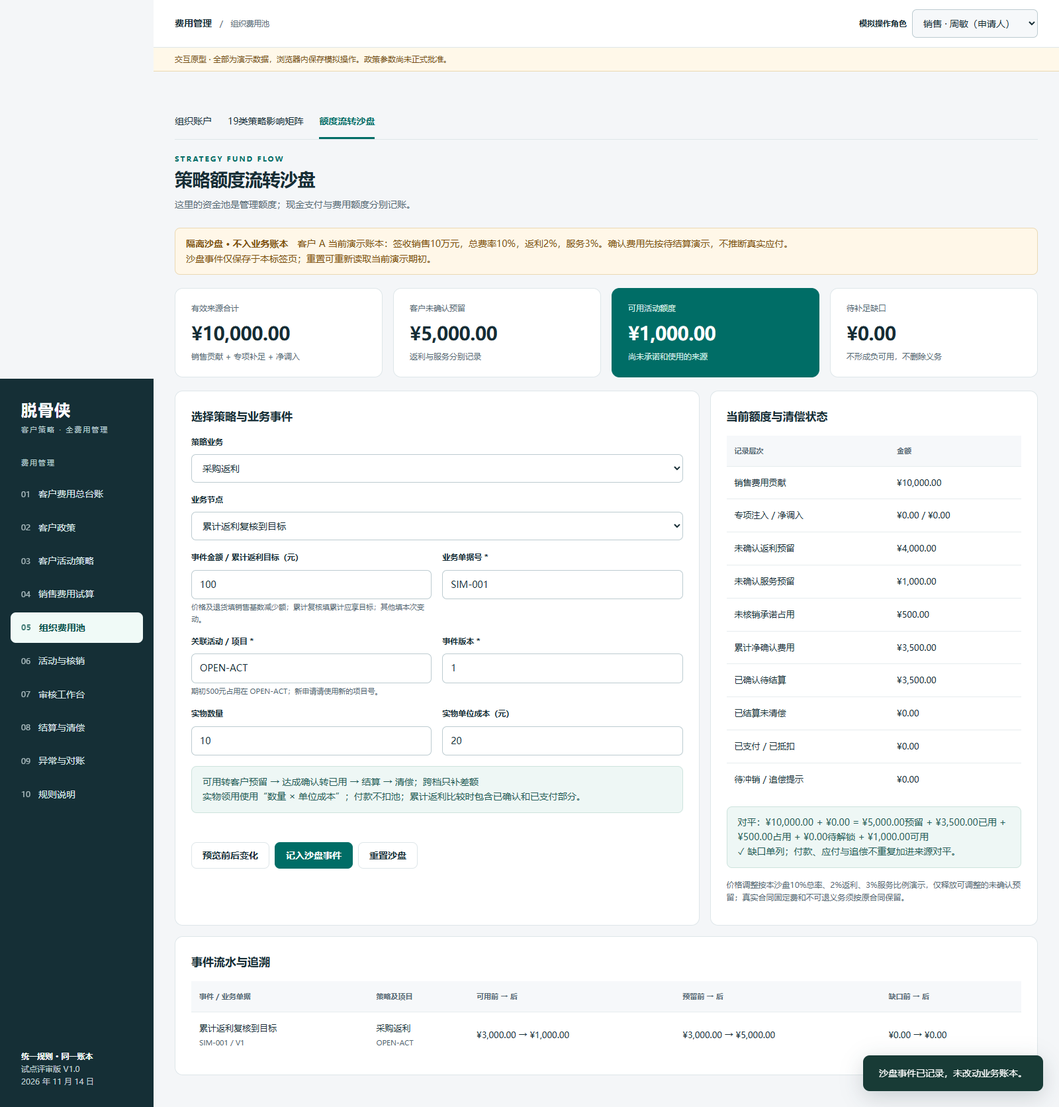
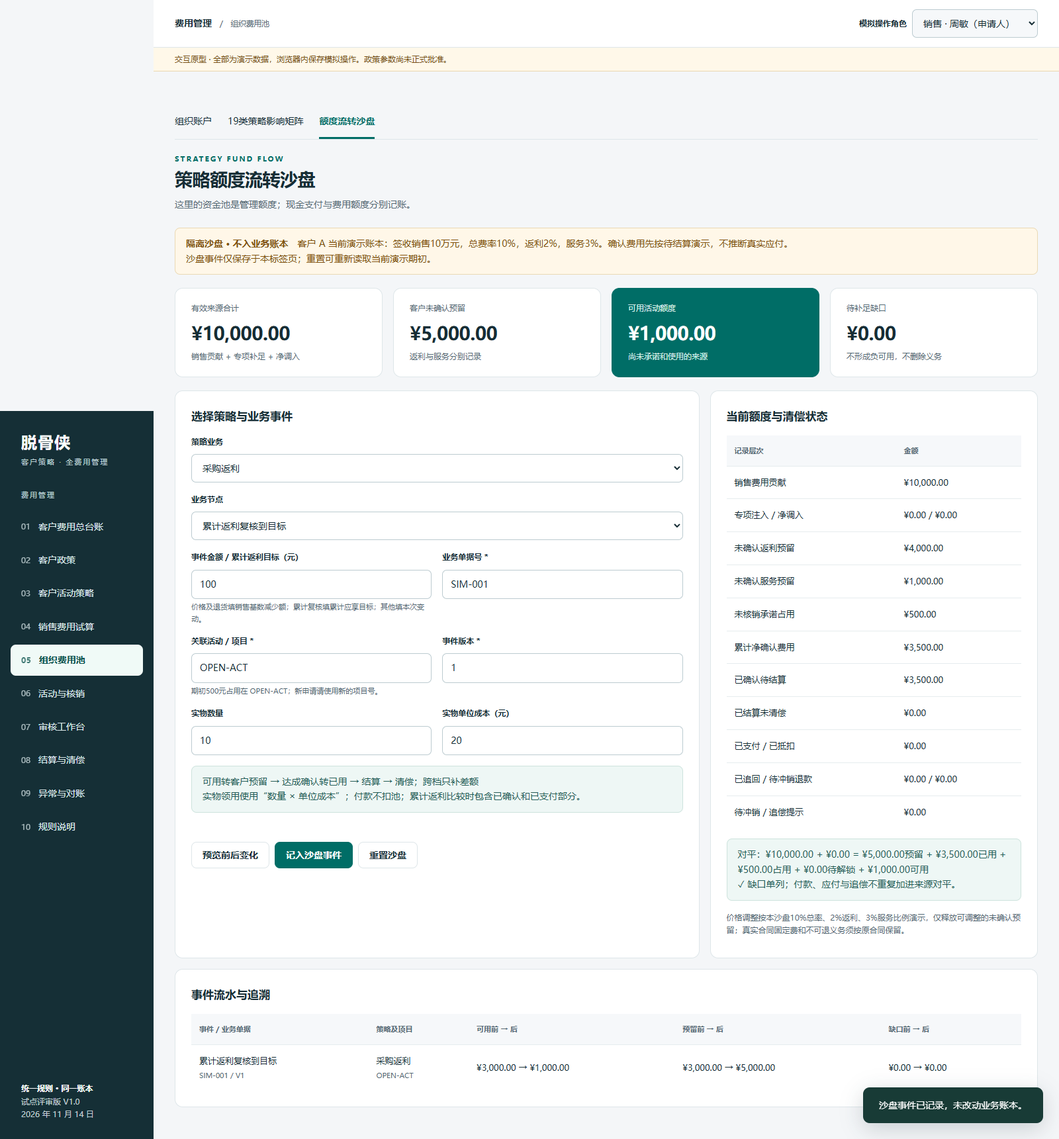
Auto sync 2026-11-16 17:14:25

diff --git a/09-设计与原型/全费用管理/原型.html b/09-设计与原型/全费用管理/原型.html
@@ -35,7 +35,7 @@ function render(){
  ensureSchemes();
  ensurePrograms();
  $('nav').innerHTML=pages.map(([id,num,label])=>`<button data-nav="${id}" ${page===id?'aria-current="page"':''}><span>${num}</span><span>${label}</span></button>`).join('');$('crumb').textContent=pages.find(x=>x[0]===page)[2];
- const views={ledger:ledgerView,policies:policyView,programs:programListView,programs:programListView,programs:programListView,programs:programListView,programs:programListView,programs:programListView,calculator:calcView,pools:poolsView,activities:activitiesView,approval:approvalView,settlement:settlementView,exceptions:exceptionsView,rules:rulesView};$('workspace').innerHTML=views[page]();if(page==='calculator'&&$('calcForm'))calculate();if(page==='activities')drawActivityRows();
+ const views={ledger:ledgerView,policies:policyView,programs:programListView,programs:programListView,programs:programListView,programs:programListView,programs:programListView,programs:programListView,programs:programListView,calculator:calcView,pools:poolsView,activities:activitiesView,approval:approvalView,settlement:settlementView,exceptions:exceptionsView,rules:rulesView};$('workspace').innerHTML=views[page]();if(page==='calculator'&&$('calcForm'))calculate();if(page==='activities')drawActivityRows();
 }
 function ledgerView(){const b=balances(),used=sum(b.used),available=sum(b.available),occ=sum(b.occupied),confirmed=200000+used;
 return heading('CUSTOMER EXPENSE LEDGER','客户费用总台账','统一查看客户贡献、费用承诺与实际投入。',`<button data-action="export">导出台账 CSV</button><button class="primary" data-action="new">发起活动申请</button>`)+
@@ -1712,25 +1712,25 @@ document.addEventListener('click',e=>{const b=e.target.closest('button');if(!b)r
 // 策略资金影响设计及隔离沙盘：不改动任何业务账本余额。
 const fundPolicies={
 price:{source:'成交价格',trigger:'有效销售计提 / 价格调整',flow:'先减少成交基数，再重算总贡献和按合同可调整的预留；不按优惠额再扣活动池',reverse:'取消 / 退货引用原销售与政策版本冲回；已成立义务不自动取消',actions:['price','return']},
-rebate:{source:'SKU总包',trigger:'有效销售或期间累计复核',flow:'可用转客户预留 → 达成确认转已用 → 结算 → 清偿；跨档只补差额',reverse:'仅释放未确认预留；已确认或已付差额进入冲销 / 追偿',actions:['target','reserve','reserve_release','confirm_rebate','settle','pay','reverse_fee']},
-activity:{source:'SKU总包',trigger:'申请最终审批通过',flow:'可用转占用 → 履约核销转已用 → 结项释放余款 → 结算清偿',reverse:'撤回 / 驳回未占用；取消释放剩余占用，已核销走批准冲销',actions:['hold','use','release','settle','pay','reverse_fee']},
-physical:{source:'SKU总包',trigger:'领用审批按成本占用',flow:'批准成本占用 → 出库记录数量 → 验收成本核销 → 差额释放；不按零售价计费',reverse:'未核销退库释放成本占用；已核销退库凭证经批准冲销',actions:['physical_hold','use','release','reverse_fee']},
-deduction:{source:'合同结算',trigger:'合同及结算审核',flow:'默认只改变清偿或扣款方向，不自动增加预算；真实费用冲减须单独批准',reverse:'扣款撤销恢复原应付；预算恢复与清偿撤销分别审核',actions:['deduct','settle','pay','reverse_fee']}
+rebate:{source:'SKU总包',trigger:'有效销售或期间累计复核',flow:'可用转客户预留 → 达成确认转已用 → 结算 → 清偿；跨档只补差额',reverse:'仅释放未确认预留；已确认或已付差额进入冲销 / 追偿',actions:['target','reserve','reserve_release','confirm_rebate','settle','pay','reverse_fee','refund','reverse_refunded']},
+activity:{source:'SKU总包',trigger:'申请最终审批通过',flow:'可用转占用 → 履约核销转已用 → 结项释放余款 → 结算清偿',reverse:'撤回 / 驳回未占用；取消释放剩余占用，已核销走批准冲销',actions:['hold','use','release','settle','pay','reverse_fee','refund','reverse_refunded']},
+physical:{source:'SKU总包',trigger:'领用审批按成本占用',flow:'批准成本占用 → 出库记录数量 → 验收成本核销 → 差额释放；不按零售价计费',reverse:'未核销退库释放成本占用；已核销退库凭证经批准冲销',actions:['physical_hold','use','release','reverse_fee','refund','reverse_refunded']},
+deduction:{source:'合同结算',trigger:'合同及结算审核',flow:'默认只改变清偿或扣款方向，不自动增加预算；真实费用冲减须单独批准',reverse:'扣款撤销恢复原应付；预算恢复与清偿撤销分别审核',actions:['deduct','settle','pay','reverse_fee','refund','reverse_refunded']}
 };
-const fundActions={price:'价格让利后的基数调整',return:'退货销售冲回',reserve:'追加客户费用预留',target:'累计返利复核到目标',reserve_release:'释放未确认返利预留',confirm_rebate:'返利达成确认',hold:'活动审批占用',physical_hold:'实物领用按成本占用',use:'执行核销 / 实物验收',release:'结项 / 取消释放占用',settle:'确认费用转结算应付',pay:'现金支付 / 货款抵扣',reverse_fee:'批准冲销未清偿费用',deduct:'合同扣款清偿',inject:'专项补足（独立来源）',transfer_out:'调出可用额度'};
+const fundActions={refund:'已付款项追回 / 退款到账',reverse_refunded:'批准冲销已追回费用',price:'价格让利后的基数调整',return:'退货销售冲回',reserve:'追加客户费用预留',target:'累计返利复核到目标',reserve_release:'释放未确认返利预留',confirm_rebate:'返利达成确认',hold:'活动审批占用',physical_hold:'实物领用按成本占用',use:'执行核销 / 实物验收',release:'结项 / 取消释放占用',settle:'确认费用转结算应付',pay:'现金支付 / 货款抵扣',reverse_fee:'批准冲销未清偿费用',deduct:'合同扣款清偿',inject:'专项补足（独立来源）',transfer_out:'调出可用额度'};
 let fundTab='accounts',fundRuleId='STR-001',fundSandbox=null;
 const existingPoolView=poolsView,existingReadRule=readRule,existingRuleOpen=openDealerRule,existingFundRender=render;
 function fundPolicy(r){const special={'新品试销支持':{flow:'首批折扣先影响成交基数；换货权益不折现，实际换货成本差及履约费用按合同另行确认'},'运费补贴':{flow:'若已计入履约成本不得重复扣包；新增客户专项运费支持先占用，再按合格账单核销'},'库存价保 / 调换支持':{flow:'核验原采购、库存及调价差，批准新增补偿占用并确认；已通过销售折让处理的部分不重复扣包'}};return{...fundPolicies[r.route],...(special[r.kind]||{}),...(r.fund||{})}}
 function fundDefaultRules(){ensurePrograms();return state.dealerRules}
-function initialFundSandbox(){const b=balances(),used=sum(b.used),hold=sum(b.occupied);return{contribution:1000000,topup:0,transfer:0,r:200000,s:100000,c:200000+used,h:hold,locked:0,rebateConfirmed:0,unsettledR:0,dueR:0,paidR:0,unsettled:200000+used,due:0,paid:0,claim:0,projects:{'OPEN-ACT':hold},events:[],seen:[],baseNote:'客户 A 当前演示账本：签收销售10万元，总费率10%，返利2%，服务3%。确认费用先按待结算演示，不推断真实应付。'}}
-function loadFundSandbox(){if(fundSandbox)return fundSandbox;try{fundSandbox=JSON.parse(sessionStorage.getItem('tgx-fund-sandbox-v1')||'null')}catch{}if(!fundSandbox)fundSandbox=initialFundSandbox();fundSandbox.unsettledR??=0;fundSandbox.dueR??=0;fundSandbox.paidR??=0;return fundSandbox}
+function initialFundSandbox(){const b=balances(),used=sum(b.used),hold=sum(b.occupied);return{contribution:1000000,topup:0,transfer:0,r:200000,s:100000,c:200000+used,h:hold,locked:0,rebateConfirmed:0,unsettledR:0,dueR:0,paidR:0,refunded:0,refundedR:0,refundPending:0,refundPendingR:0,unsettled:200000+used,due:0,paid:0,claim:0,projects:{'OPEN-ACT':hold},events:[],seen:[],baseNote:'客户 A 当前演示账本：签收销售10万元，总费率10%，返利2%，服务3%。确认费用先按待结算演示，不推断真实应付。'}}
+function loadFundSandbox(){if(fundSandbox)return fundSandbox;try{fundSandbox=JSON.parse(sessionStorage.getItem('tgx-fund-sandbox-v1')||'null')}catch{}if(!fundSandbox)fundSandbox=initialFundSandbox();fundSandbox.unsettledR??=0;fundSandbox.dueR??=0;fundSandbox.paidR??=0;fundSandbox.refunded??=0;fundSandbox.refundedR??=0;fundSandbox.refundPending??=0;fundSandbox.refundPendingR??=0;return fundSandbox}
 function saveFundSandbox(){try{sessionStorage.setItem('tgx-fund-sandbox-v1',JSON.stringify(fundSandbox))}catch{}}
 function fundTotals(b){const source=b.contribution+b.topup+b.transfer,committed=b.r+b.s+b.c+b.h+b.locked;return{source,available:Math.max(0,source-committed),gap:Math.max(0,committed-source),committed}}
 function fundMatrix(){return table(['业务策略','默认承担来源 / 节点','额度如何变化','撤销及退货','查看'],fundDefaultRules().map(r=>{const p=fundPolicy(r);return[esc(r.kind),esc(p.source)+'<br><small>'+esc(p.trigger)+'</small>',`<span class="wrap">${esc(p.flow)}</span>`,`<span class="wrap">${esc(p.reverse)}</span>`,`<button class="small" data-fund-detail="${r.id}">影响详情</button>`]}))}
 poolsView=function(){const top=`<div class="tabs"><button data-fund-tab="accounts" aria-selected="${fundTab==='accounts'}">组织账户</button><button data-fund-tab="matrix" aria-selected="${fundTab==='matrix'}">19类策略影响矩阵</button><button data-fund-tab="sandbox" aria-selected="${fundTab==='sandbox'}">额度流转沙盘</button></div>`;if(fundTab==='accounts')return top+existingPoolView();return top+heading('STRATEGY FUND FLOW',fundTab==='matrix'?'策略与资金池影响':'策略额度流转沙盘','这里的资金池是管理额度；现金支付与费用额度分别记账。')+(fundTab==='matrix'?`<section class="card">${fundMatrix()}</section><div class="banner">方案发布不增加资金；预估不扣可用。承诺占用、费用确认、结算应付与现金清偿分开记录。合同承诺超包时保留义务并登记缺口，不能压低合同费用。</div>`:fundSandboxView())};
 function openFundDetail(id){const r=state.dealerRules.find(r=>r.id===id),p=fundPolicy(r);launchPage({kind:'fundStrategy',id},()=>showModal(r.kind+' · 资金池影响',`<h2>${esc(r.kind)} ${tag('规则 V'+r.version)}</h2>${table(['设计项','处理规则'],[['计价及单位',r.route==='physical'?'按批准成本，数量和金额分别保存':r.route==='price'?'按成交基数变化，不再以让利额扣费用包':'按政策约定金额及税口径'],['承担来源',esc(p.source)],['生效节点',esc(p.trigger)],['额度路径',esc(p.flow)],['撤销及调整',esc(p.reverse)],['多池及多客户','承担组织分别授权，来源客户和受益客户分别保存；拆分合计等于原金额'],['缺口处理','新活动不足时不占用；已成立合同预留不足时登记缺口，暂停新释放'],['付款控制','已确认费用转应付后可清偿，支付及抵扣不再次减少预算']])}<div class="actions" style="margin-top:16px"><button class="primary" data-fund-sim="${id}">模拟本策略资金流转</button><button data-rule-open="${id}">查看策略配置</button></div>`))}
 function fundSandboxView(){const b=loadFundSandbox(),v=fundTotals(b),r=state.dealerRules.find(r=>r.id===fundRuleId)||state.dealerRules[0],policy=fundPolicy(r);return`<div class="banner warn"><strong>隔离沙盘 · 不入业务账本</strong>　${esc(b.baseNote)}<br>沙盘事件仅保存于本标签页；重置可重新读取当前演示期初。${v.gap?'存在缺口，禁止新增活动占用；已确认义务和原支付记录保留。':''}</div><div class="grid stats">${stat('有效来源合计',money(v.source),'销售贡献 + 专项补足 + 净调入')}${stat('客户未确认预留',money(b.r+b.s),'返利与服务分别记录')}${stat('可用活动额度',money(v.available),'尚未承诺和使用的来源',true)}${stat('待补足缺口',money(v.gap),'不形成负可用，不删除义务')}</div><div class="grid split"><section class="card"><h2>选择策略与业务事件</h2><form id="fundEventForm"><div class="fields"><div class="field wide"><label for="fundRule">策略业务</label><select id="fundRule">${state.dealerRules.map(s=>`<option value="${s.id}" ${s.id===fundRuleId?'selected':''}>${esc(s.kind)}</option>`).join('')}</select></div><div class="field wide"><label for="fundAction">业务节点</label><select id="fundAction">${[...new Set([...policy.actions,'inject','transfer_out'])].map(a=>`<option value="${a}">${fundActions[a]}</option>`).join('')}</select></div><div class="field"><label for="fundAmount">事件金额 / 累计返利目标（元）</label><input id="fundAmount" type="number" min="0" step="0.01" value="100" required><small>价格及退货填销售基数减少额；累计复核填累计应享目标；其他填本次变动。</small></div><div class="field"><label for="fundRef">业务单据号 *</label><input id="fundRef" value="SIM-001" maxlength="60" required></div><div class="field"><label for="fundProject">关联活动 / 项目 *</label><input id="fundProject" value="OPEN-ACT" maxlength="60" required><small>期初500元占用在 OPEN-ACT；新申请请使用新的项目号。</small></div><div class="field"><label for="fundVersion">事件版本 *</label><input id="fundVersion" type="number" min="1" step="1" value="1" required></div><div class="field"><label for="fundQty">实物数量</label><input id="fundQty" type="number" min="1" step="1" value="10"></div><div class="field"><label for="fundCost">实物单位成本（元）</label><input id="fundCost" type="number" min="0.01" step="0.01" value="20"></div></div><div class="banner">${esc(policy.flow)}<br>实物领用使用“数量 × 单位成本”；付款不扣池；累计返利比较时包含已确认和已支付部分。</div><p id="fundError" class="error-text" role="alert"></p><div class="actions"><button type="button" data-fund-preview>预览前后变化</button><button type="submit" class="primary">记入沙盘事件</button><button type="button" data-fund-reset>重置沙盘</button></div></form><div id="fundPreview" aria-live="polite"></div></section><section class="card"><h2>当前额度与清偿状态</h2>${fundStateTable(b)}<div class="banner">对平：${money(v.source)} + ${money(v.gap)} = ${money(b.r+b.s)}预留 + ${money(b.c)}已用 + ${money(b.h)}占用 + ${money(b.locked)}待解锁 + ${money(v.available)}可用<br>✓ 缺口单列；付款、应付与追偿不重复加进来源对平。</div><p class="note">价格调整按本沙盘10%总率、2%返利、3%服务比例演示，仅释放可调整的未确认预留；真实合同固定费和不可退义务须按原合同保留。</p></section></div><section class="card" style="margin-top:16px"><h2>事件流水与追溯</h2>${table(['事件 / 业务单据','策略及项目','可用前 → 后','预留前 → 后','缺口前 → 后'],b.events.map(e=>[esc(e.action)+'<br><small>'+esc(e.ref)+' / V'+e.version+'</small>',esc(e.kind)+'<br><small>'+esc(e.project)+'</small>',money(e.before.available)+' → '+money(e.after.available),money(e.before.reserve)+' → '+money(e.after.reserve),money(e.before.gap)+' → '+money(e.after.gap)]))}</section>`}
-function fundStateTable(b){return table(['记录层次','金额'],[['销售费用贡献',money(b.contribution)],['专项注入 / 净调入',money(b.topup)+' / '+money(b.transfer)],['未确认返利预留',money(b.r)],['未确认服务预留',money(b.s)],['未核销承诺占用',money(b.h)],['累计净确认费用',money(b.c)],['已确认待结算',money(b.unsettled)],['已结算未清偿',money(b.due)],['已支付 / 已抵扣',money(b.paid)],['待冲销 / 追偿提示',money(b.claim)]])}
+function fundStateTable(b){return table(['记录层次','金额'],[['销售费用贡献',money(b.contribution)],['专项注入 / 净调入',money(b.topup)+' / '+money(b.transfer)],['未确认返利预留',money(b.r)],['未确认服务预留',money(b.s)],['未核销承诺占用',money(b.h)],['累计净确认费用',money(b.c)],['已确认待结算',money(b.unsettled)],['已结算未清偿',money(b.due)],['已支付 / 已抵扣',money(b.paid)],['已追回 / 待冲销退款',money(b.refunded||0)+' / '+money(b.refundPending||0)],['待冲销 / 追偿提示',money(b.claim)]])}
 function reduceToState(b){const t=fundTotals(b);return{available:t.available,gap:t.gap,reserve:b.r+b.s}}
 function simulateFundEvent(b,event){const n=clone(b),{action,amount,project}=event,t=fundTotals(n);if(!Number.isSafeInteger(amount)||amount<0)throw Error('请输入非负有效金额。');if(n.seen.includes(event.key))throw Error('该来源、单据、节点与版本已处理，不能重复入账。更正应使用新版本及原记录关联。');if(amount===0&&action!=='target')throw Error('本次变动金额须大于零。');if(event.source&& !['SKU总包','成交价格','合同结算'].includes(event.source)&&!['inject','transfer_out'].includes(action))throw Error('该策略不由当前 SKU 总包承担，请使用独立专项或包外成本账户，不能直接扣本沙盘总包。');const rebate=event.route==='rebate';let message='';
  if(action==='price'||action==='return'){const contribution=Math.round(amount*.10),r=Math.round(amount*.02),s=Math.round(amount*.03);if(contribution>n.contribution)throw Error('减少的贡献超过现有销售贡献，请核对原销售行。');n.contribution-=contribution;n.r-=Math.min(n.r,r);n.s-=Math.min(n.s,s);message='按比例重算贡献与可调整预留；已确认费用、已支付部分未被删除。'}
@@ -1743,6 +1743,8 @@ function simulateFundEvent(b,event){const n=clone(b),{action,amount,project}=eve
  else if(action==='settle'){if(amount>(rebate?(n.unsettledR||0):n.unsettled-(n.unsettledR||0)))throw Error('超过该类费用已确认待结算金额，不能占用其他费用。');n.unsettled-=amount;n.due+=amount;if(rebate){n.unsettledR-=amount;n.dueR=(n.dueR||0)+amount}message='确认费用转应付，费用池不变化。'}
  else if(action==='pay'||action==='deduct'){if(amount>(rebate?(n.dueR||0):n.due-(n.dueR||0)))throw Error('超过该类有效未清偿应付，请先完成费用确认与结算。');n.due-=amount;n.paid+=amount;if(rebate){n.dueR-=amount;n.paidR=(n.paidR||0)+amount}message=action==='deduct'?'按合同方向演示减少应付；不是新费用，也不自动返还预算。':'支付或抵扣只清偿应付，不再次扣费用池。'}
  else if(action==='reverse_fee'){if(amount>(rebate?(n.unsettledR||0)+(n.dueR||0):n.unsettled+n.due-(n.unsettledR||0)-(n.dueR||0)))throw Error('已支付部分不能直接冲销恢复预算。请先关联追偿及财务批准的冲销处理。');const take=Math.min(amount,rebate?(n.unsettledR||0):n.unsettled-(n.unsettledR||0));n.unsettled-=take;n.due-=amount-take;n.c-=amount;if(rebate){n.unsettledR-=take;n.dueR-=amount-take;n.rebateConfirmed-=amount;n.claim=Math.max(0,n.claim-amount)}message='本事件假设已有批准冲销凭证，仅冲销尚未清偿费用；已支付记录不删改。'}
+ else if(action==='refund'){const max=rebate?(n.paidR||0)-(n.refundedR||0):n.paid-(n.paidR||0)-(n.refunded||0)+(n.refundedR||0);if(amount>max)throw Error('退款超过该类历史清偿的未追回金额。');n.refunded=(n.refunded||0)+amount;n.refundPending=(n.refundPending||0)+amount;if(rebate){n.refundedR=(n.refundedR||0)+amount;n.refundPendingR=(n.refundPendingR||0)+amount}message='已收回资金仅登记待冲销，历史支付不删除，可用额度不变。'}
+ else if(action==='reverse_refunded'){const max=rebate?(n.refundPendingR||0):(n.refundPending||0)-(n.refundPendingR||0);if(amount>max)throw Error('超过该类已追回待冲销金额，请先登记真实退款到账。');n.refundPending-=amount;n.c-=amount;if(rebate){n.refundPendingR-=amount;n.rebateConfirmed-=amount}n.claim=Math.max(0,n.claim-amount);message='本事件假设已获冲销批准，冲减确认费用后才恢复额度或减少缺口。'}
  else if(action==='inject'){n.topup+=amount;message='专项补足来源单列，不计作销售贡献。'}
  else if(action==='transfer_out'){if(amount>t.available||t.gap)throw Error('只能调出可用额度，不能挪用预留、占用和已用。');n.transfer-=amount;message='实际调拨需调出、调入组织分别授权并同批对平。'}
  else throw Error('不支持的业务节点。');

diff --git a/09-设计与原型/全费用管理/fund-flow.js b/09-设计与原型/全费用管理/fund-flow.js
@@ -1,25 +1,25 @@
 // 策略资金影响设计及隔离沙盘：不改动任何业务账本余额。
 const fundPolicies={
 price:{source:'成交价格',trigger:'有效销售计提 / 价格调整',flow:'先减少成交基数，再重算总贡献和按合同可调整的预留；不按优惠额再扣活动池',reverse:'取消 / 退货引用原销售与政策版本冲回；已成立义务不自动取消',actions:['price','return']},
-rebate:{source:'SKU总包',trigger:'有效销售或期间累计复核',flow:'可用转客户预留 → 达成确认转已用 → 结算 → 清偿；跨档只补差额',reverse:'仅释放未确认预留；已确认或已付差额进入冲销 / 追偿',actions:['target','reserve','reserve_release','confirm_rebate','settle','pay','reverse_fee']},
-activity:{source:'SKU总包',trigger:'申请最终审批通过',flow:'可用转占用 → 履约核销转已用 → 结项释放余款 → 结算清偿',reverse:'撤回 / 驳回未占用；取消释放剩余占用，已核销走批准冲销',actions:['hold','use','release','settle','pay','reverse_fee']},
-physical:{source:'SKU总包',trigger:'领用审批按成本占用',flow:'批准成本占用 → 出库记录数量 → 验收成本核销 → 差额释放；不按零售价计费',reverse:'未核销退库释放成本占用；已核销退库凭证经批准冲销',actions:['physical_hold','use','release','reverse_fee']},
-deduction:{source:'合同结算',trigger:'合同及结算审核',flow:'默认只改变清偿或扣款方向，不自动增加预算；真实费用冲减须单独批准',reverse:'扣款撤销恢复原应付；预算恢复与清偿撤销分别审核',actions:['deduct','settle','pay','reverse_fee']}
+rebate:{source:'SKU总包',trigger:'有效销售或期间累计复核',flow:'可用转客户预留 → 达成确认转已用 → 结算 → 清偿；跨档只补差额',reverse:'仅释放未确认预留；已确认或已付差额进入冲销 / 追偿',actions:['target','reserve','reserve_release','confirm_rebate','settle','pay','reverse_fee','refund','reverse_refunded']},
+activity:{source:'SKU总包',trigger:'申请最终审批通过',flow:'可用转占用 → 履约核销转已用 → 结项释放余款 → 结算清偿',reverse:'撤回 / 驳回未占用；取消释放剩余占用，已核销走批准冲销',actions:['hold','use','release','settle','pay','reverse_fee','refund','reverse_refunded']},
+physical:{source:'SKU总包',trigger:'领用审批按成本占用',flow:'批准成本占用 → 出库记录数量 → 验收成本核销 → 差额释放；不按零售价计费',reverse:'未核销退库释放成本占用；已核销退库凭证经批准冲销',actions:['physical_hold','use','release','reverse_fee','refund','reverse_refunded']},
+deduction:{source:'合同结算',trigger:'合同及结算审核',flow:'默认只改变清偿或扣款方向，不自动增加预算；真实费用冲减须单独批准',reverse:'扣款撤销恢复原应付；预算恢复与清偿撤销分别审核',actions:['deduct','settle','pay','reverse_fee','refund','reverse_refunded']}
 };
-const fundActions={price:'价格让利后的基数调整',return:'退货销售冲回',reserve:'追加客户费用预留',target:'累计返利复核到目标',reserve_release:'释放未确认返利预留',confirm_rebate:'返利达成确认',hold:'活动审批占用',physical_hold:'实物领用按成本占用',use:'执行核销 / 实物验收',release:'结项 / 取消释放占用',settle:'确认费用转结算应付',pay:'现金支付 / 货款抵扣',reverse_fee:'批准冲销未清偿费用',deduct:'合同扣款清偿',inject:'专项补足（独立来源）',transfer_out:'调出可用额度'};
+const fundActions={refund:'已付款项追回 / 退款到账',reverse_refunded:'批准冲销已追回费用',price:'价格让利后的基数调整',return:'退货销售冲回',reserve:'追加客户费用预留',target:'累计返利复核到目标',reserve_release:'释放未确认返利预留',confirm_rebate:'返利达成确认',hold:'活动审批占用',physical_hold:'实物领用按成本占用',use:'执行核销 / 实物验收',release:'结项 / 取消释放占用',settle:'确认费用转结算应付',pay:'现金支付 / 货款抵扣',reverse_fee:'批准冲销未清偿费用',deduct:'合同扣款清偿',inject:'专项补足（独立来源）',transfer_out:'调出可用额度'};
 let fundTab='accounts',fundRuleId='STR-001',fundSandbox=null;
 const existingPoolView=poolsView,existingReadRule=readRule,existingRuleOpen=openDealerRule,existingFundRender=render;
 function fundPolicy(r){const special={'新品试销支持':{flow:'首批折扣先影响成交基数；换货权益不折现，实际换货成本差及履约费用按合同另行确认'},'运费补贴':{flow:'若已计入履约成本不得重复扣包；新增客户专项运费支持先占用，再按合格账单核销'},'库存价保 / 调换支持':{flow:'核验原采购、库存及调价差，批准新增补偿占用并确认；已通过销售折让处理的部分不重复扣包'}};return{...fundPolicies[r.route],...(special[r.kind]||{}),...(r.fund||{})}}
 function fundDefaultRules(){ensurePrograms();return state.dealerRules}
-function initialFundSandbox(){const b=balances(),used=sum(b.used),hold=sum(b.occupied);return{contribution:1000000,topup:0,transfer:0,r:200000,s:100000,c:200000+used,h:hold,locked:0,rebateConfirmed:0,unsettledR:0,dueR:0,paidR:0,unsettled:200000+used,due:0,paid:0,claim:0,projects:{'OPEN-ACT':hold},events:[],seen:[],baseNote:'客户 A 当前演示账本：签收销售10万元，总费率10%，返利2%，服务3%。确认费用先按待结算演示，不推断真实应付。'}}
-function loadFundSandbox(){if(fundSandbox)return fundSandbox;try{fundSandbox=JSON.parse(sessionStorage.getItem('tgx-fund-sandbox-v1')||'null')}catch{}if(!fundSandbox)fundSandbox=initialFundSandbox();fundSandbox.unsettledR??=0;fundSandbox.dueR??=0;fundSandbox.paidR??=0;return fundSandbox}
+function initialFundSandbox(){const b=balances(),used=sum(b.used),hold=sum(b.occupied);return{contribution:1000000,topup:0,transfer:0,r:200000,s:100000,c:200000+used,h:hold,locked:0,rebateConfirmed:0,unsettledR:0,dueR:0,paidR:0,refunded:0,refundedR:0,refundPending:0,refundPendingR:0,unsettled:200000+used,due:0,paid:0,claim:0,projects:{'OPEN-ACT':hold},events:[],seen:[],baseNote:'客户 A 当前演示账本：签收销售10万元，总费率10%，返利2%，服务3%。确认费用先按待结算演示，不推断真实应付。'}}
+function loadFundSandbox(){if(fundSandbox)return fundSandbox;try{fundSandbox=JSON.parse(sessionStorage.getItem('tgx-fund-sandbox-v1')||'null')}catch{}if(!fundSandbox)fundSandbox=initialFundSandbox();fundSandbox.unsettledR??=0;fundSandbox.dueR??=0;fundSandbox.paidR??=0;fundSandbox.refunded??=0;fundSandbox.refundedR??=0;fundSandbox.refundPending??=0;fundSandbox.refundPendingR??=0;return fundSandbox}
 function saveFundSandbox(){try{sessionStorage.setItem('tgx-fund-sandbox-v1',JSON.stringify(fundSandbox))}catch{}}
 function fundTotals(b){const source=b.contribution+b.topup+b.transfer,committed=b.r+b.s+b.c+b.h+b.locked;return{source,available:Math.max(0,source-committed),gap:Math.max(0,committed-source),committed}}
 function fundMatrix(){return table(['业务策略','默认承担来源 / 节点','额度如何变化','撤销及退货','查看'],fundDefaultRules().map(r=>{const p=fundPolicy(r);return[esc(r.kind),esc(p.source)+'<br><small>'+esc(p.trigger)+'</small>',`<span class="wrap">${esc(p.flow)}</span>`,`<span class="wrap">${esc(p.reverse)}</span>`,`<button class="small" data-fund-detail="${r.id}">影响详情</button>`]}))}
 poolsView=function(){const top=`<div class="tabs"><button data-fund-tab="accounts" aria-selected="${fundTab==='accounts'}">组织账户</button><button data-fund-tab="matrix" aria-selected="${fundTab==='matrix'}">19类策略影响矩阵</button><button data-fund-tab="sandbox" aria-selected="${fundTab==='sandbox'}">额度流转沙盘</button></div>`;if(fundTab==='accounts')return top+existingPoolView();return top+heading('STRATEGY FUND FLOW',fundTab==='matrix'?'策略与资金池影响':'策略额度流转沙盘','这里的资金池是管理额度；现金支付与费用额度分别记账。')+(fundTab==='matrix'?`<section class="card">${fundMatrix()}</section><div class="banner">方案发布不增加资金；预估不扣可用。承诺占用、费用确认、结算应付与现金清偿分开记录。合同承诺超包时保留义务并登记缺口，不能压低合同费用。</div>`:fundSandboxView())};
 function openFundDetail(id){const r=state.dealerRules.find(r=>r.id===id),p=fundPolicy(r);launchPage({kind:'fundStrategy',id},()=>showModal(r.kind+' · 资金池影响',`<h2>${esc(r.kind)} ${tag('规则 V'+r.version)}</h2>${table(['设计项','处理规则'],[['计价及单位',r.route==='physical'?'按批准成本，数量和金额分别保存':r.route==='price'?'按成交基数变化，不再以让利额扣费用包':'按政策约定金额及税口径'],['承担来源',esc(p.source)],['生效节点',esc(p.trigger)],['额度路径',esc(p.flow)],['撤销及调整',esc(p.reverse)],['多池及多客户','承担组织分别授权，来源客户和受益客户分别保存；拆分合计等于原金额'],['缺口处理','新活动不足时不占用；已成立合同预留不足时登记缺口，暂停新释放'],['付款控制','已确认费用转应付后可清偿，支付及抵扣不再次减少预算']])}<div class="actions" style="margin-top:16px"><button class="primary" data-fund-sim="${id}">模拟本策略资金流转</button><button data-rule-open="${id}">查看策略配置</button></div>`))}
 function fundSandboxView(){const b=loadFundSandbox(),v=fundTotals(b),r=state.dealerRules.find(r=>r.id===fundRuleId)||state.dealerRules[0],policy=fundPolicy(r);return`<div class="banner warn"><strong>隔离沙盘 · 不入业务账本</strong>　${esc(b.baseNote)}<br>沙盘事件仅保存于本标签页；重置可重新读取当前演示期初。${v.gap?'存在缺口，禁止新增活动占用；已确认义务和原支付记录保留。':''}</div><div class="grid stats">${stat('有效来源合计',money(v.source),'销售贡献 + 专项补足 + 净调入')}${stat('客户未确认预留',money(b.r+b.s),'返利与服务分别记录')}${stat('可用活动额度',money(v.available),'尚未承诺和使用的来源',true)}${stat('待补足缺口',money(v.gap),'不形成负可用，不删除义务')}</div><div class="grid split"><section class="card"><h2>选择策略与业务事件</h2><form id="fundEventForm"><div class="fields"><div class="field wide"><label for="fundRule">策略业务</label><select id="fundRule">${state.dealerRules.map(s=>`<option value="${s.id}" ${s.id===fundRuleId?'selected':''}>${esc(s.kind)}</option>`).join('')}</select></div><div class="field wide"><label for="fundAction">业务节点</label><select id="fundAction">${[...new Set([...policy.actions,'inject','transfer_out'])].map(a=>`<option value="${a}">${fundActions[a]}</option>`).join('')}</select></div><div class="field"><label for="fundAmount">事件金额 / 累计返利目标（元）</label><input id="fundAmount" type="number" min="0" step="0.01" value="100" required><small>价格及退货填销售基数减少额；累计复核填累计应享目标；其他填本次变动。</small></div><div class="field"><label for="fundRef">业务单据号 *</label><input id="fundRef" value="SIM-001" maxlength="60" required></div><div class="field"><label for="fundProject">关联活动 / 项目 *</label><input id="fundProject" value="OPEN-ACT" maxlength="60" required><small>期初500元占用在 OPEN-ACT；新申请请使用新的项目号。</small></div><div class="field"><label for="fundVersion">事件版本 *</label><input id="fundVersion" type="number" min="1" step="1" value="1" required></div><div class="field"><label for="fundQty">实物数量</label><input id="fundQty" type="number" min="1" step="1" value="10"></div><div class="field"><label for="fundCost">实物单位成本（元）</label><input id="fundCost" type="number" min="0.01" step="0.01" value="20"></div></div><div class="banner">${esc(policy.flow)}<br>实物领用使用“数量 × 单位成本”；付款不扣池；累计返利比较时包含已确认和已支付部分。</div><p id="fundError" class="error-text" role="alert"></p><div class="actions"><button type="button" data-fund-preview>预览前后变化</button><button type="submit" class="primary">记入沙盘事件</button><button type="button" data-fund-reset>重置沙盘</button></div></form><div id="fundPreview" aria-live="polite"></div></section><section class="card"><h2>当前额度与清偿状态</h2>${fundStateTable(b)}<div class="banner">对平：${money(v.source)} + ${money(v.gap)} = ${money(b.r+b.s)}预留 + ${money(b.c)}已用 + ${money(b.h)}占用 + ${money(b.locked)}待解锁 + ${money(v.available)}可用<br>✓ 缺口单列；付款、应付与追偿不重复加进来源对平。</div><p class="note">价格调整按本沙盘10%总率、2%返利、3%服务比例演示，仅释放可调整的未确认预留；真实合同固定费和不可退义务须按原合同保留。</p></section></div><section class="card" style="margin-top:16px"><h2>事件流水与追溯</h2>${table(['事件 / 业务单据','策略及项目','可用前 → 后','预留前 → 后','缺口前 → 后'],b.events.map(e=>[esc(e.action)+'<br><small>'+esc(e.ref)+' / V'+e.version+'</small>',esc(e.kind)+'<br><small>'+esc(e.project)+'</small>',money(e.before.available)+' → '+money(e.after.available),money(e.before.reserve)+' → '+money(e.after.reserve),money(e.before.gap)+' → '+money(e.after.gap)]))}</section>`}
-function fundStateTable(b){return table(['记录层次','金额'],[['销售费用贡献',money(b.contribution)],['专项注入 / 净调入',money(b.topup)+' / '+money(b.transfer)],['未确认返利预留',money(b.r)],['未确认服务预留',money(b.s)],['未核销承诺占用',money(b.h)],['累计净确认费用',money(b.c)],['已确认待结算',money(b.unsettled)],['已结算未清偿',money(b.due)],['已支付 / 已抵扣',money(b.paid)],['待冲销 / 追偿提示',money(b.claim)]])}
+function fundStateTable(b){return table(['记录层次','金额'],[['销售费用贡献',money(b.contribution)],['专项注入 / 净调入',money(b.topup)+' / '+money(b.transfer)],['未确认返利预留',money(b.r)],['未确认服务预留',money(b.s)],['未核销承诺占用',money(b.h)],['累计净确认费用',money(b.c)],['已确认待结算',money(b.unsettled)],['已结算未清偿',money(b.due)],['已支付 / 已抵扣',money(b.paid)],['已追回 / 待冲销退款',money(b.refunded||0)+' / '+money(b.refundPending||0)],['待冲销 / 追偿提示',money(b.claim)]])}
 function reduceToState(b){const t=fundTotals(b);return{available:t.available,gap:t.gap,reserve:b.r+b.s}}
 function simulateFundEvent(b,event){const n=clone(b),{action,amount,project}=event,t=fundTotals(n);if(!Number.isSafeInteger(amount)||amount<0)throw Error('请输入非负有效金额。');if(n.seen.includes(event.key))throw Error('该来源、单据、节点与版本已处理，不能重复入账。更正应使用新版本及原记录关联。');if(amount===0&&action!=='target')throw Error('本次变动金额须大于零。');if(event.source&& !['SKU总包','成交价格','合同结算'].includes(event.source)&&!['inject','transfer_out'].includes(action))throw Error('该策略不由当前 SKU 总包承担，请使用独立专项或包外成本账户，不能直接扣本沙盘总包。');const rebate=event.route==='rebate';let message='';
  if(action==='price'||action==='return'){const contribution=Math.round(amount*.10),r=Math.round(amount*.02),s=Math.round(amount*.03);if(contribution>n.contribution)throw Error('减少的贡献超过现有销售贡献，请核对原销售行。');n.contribution-=contribution;n.r-=Math.min(n.r,r);n.s-=Math.min(n.s,s);message='按比例重算贡献与可调整预留；已确认费用、已支付部分未被删除。'}
@@ -32,6 +32,8 @@ function simulateFundEvent(b,event){const n=clone(b),{action,amount,project}=eve
  else if(action==='settle'){if(amount>(rebate?(n.unsettledR||0):n.unsettled-(n.unsettledR||0)))throw Error('超过该类费用已确认待结算金额，不能占用其他费用。');n.unsettled-=amount;n.due+=amount;if(rebate){n.unsettledR-=amount;n.dueR=(n.dueR||0)+amount}message='确认费用转应付，费用池不变化。'}
  else if(action==='pay'||action==='deduct'){if(amount>(rebate?(n.dueR||0):n.due-(n.dueR||0)))throw Error('超过该类有效未清偿应付，请先完成费用确认与结算。');n.due-=amount;n.paid+=amount;if(rebate){n.dueR-=amount;n.paidR=(n.paidR||0)+amount}message=action==='deduct'?'按合同方向演示减少应付；不是新费用，也不自动返还预算。':'支付或抵扣只清偿应付，不再次扣费用池。'}
  else if(action==='reverse_fee'){if(amount>(rebate?(n.unsettledR||0)+(n.dueR||0):n.unsettled+n.due-(n.unsettledR||0)-(n.dueR||0)))throw Error('已支付部分不能直接冲销恢复预算。请先关联追偿及财务批准的冲销处理。');const take=Math.min(amount,rebate?(n.unsettledR||0):n.unsettled-(n.unsettledR||0));n.unsettled-=take;n.due-=amount-take;n.c-=amount;if(rebate){n.unsettledR-=take;n.dueR-=amount-take;n.rebateConfirmed-=amount;n.claim=Math.max(0,n.claim-amount)}message='本事件假设已有批准冲销凭证，仅冲销尚未清偿费用；已支付记录不删改。'}
+ else if(action==='refund'){const max=rebate?(n.paidR||0)-(n.refundedR||0):n.paid-(n.paidR||0)-(n.refunded||0)+(n.refundedR||0);if(amount>max)throw Error('退款超过该类历史清偿的未追回金额。');n.refunded=(n.refunded||0)+amount;n.refundPending=(n.refundPending||0)+amount;if(rebate){n.refundedR=(n.refundedR||0)+amount;n.refundPendingR=(n.refundPendingR||0)+amount}message='已收回资金仅登记待冲销，历史支付不删除，可用额度不变。'}
+ else if(action==='reverse_refunded'){const max=rebate?(n.refundPendingR||0):(n.refundPending||0)-(n.refundPendingR||0);if(amount>max)throw Error('超过该类已追回待冲销金额，请先登记真实退款到账。');n.refundPending-=amount;n.c-=amount;if(rebate){n.refundPendingR-=amount;n.rebateConfirmed-=amount}n.claim=Math.max(0,n.claim-amount);message='本事件假设已获冲销批准，冲减确认费用后才恢复额度或减少缺口。'}
  else if(action==='inject'){n.topup+=amount;message='专项补足来源单列，不计作销售贡献。'}
  else if(action==='transfer_out'){if(amount>t.available||t.gap)throw Error('只能调出可用额度，不能挪用预留、占用和已用。');n.transfer-=amount;message='实际调拨需调出、调入组织分别授权并同批对平。'}
  else throw Error('不支持的业务节点。');
